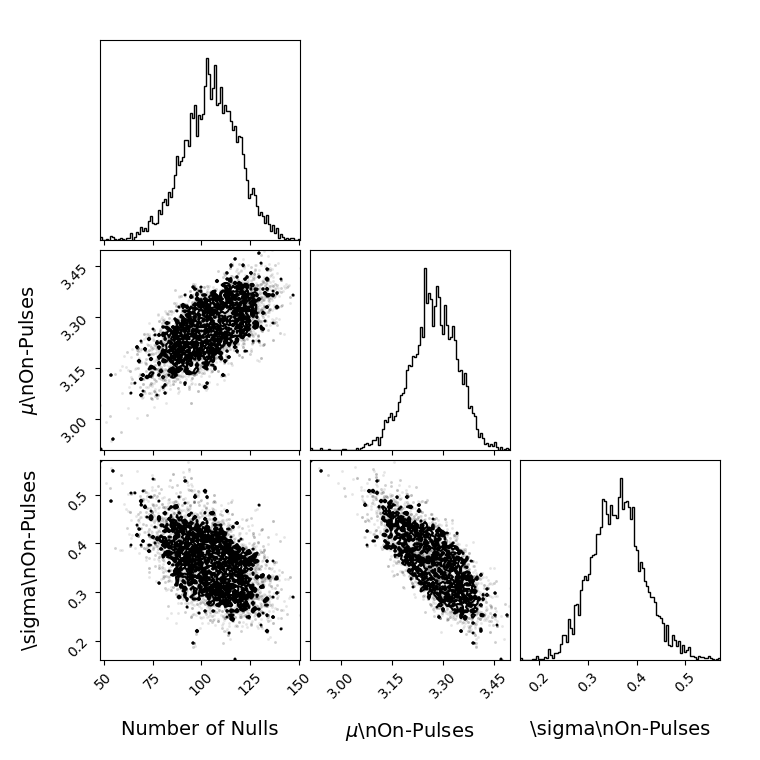
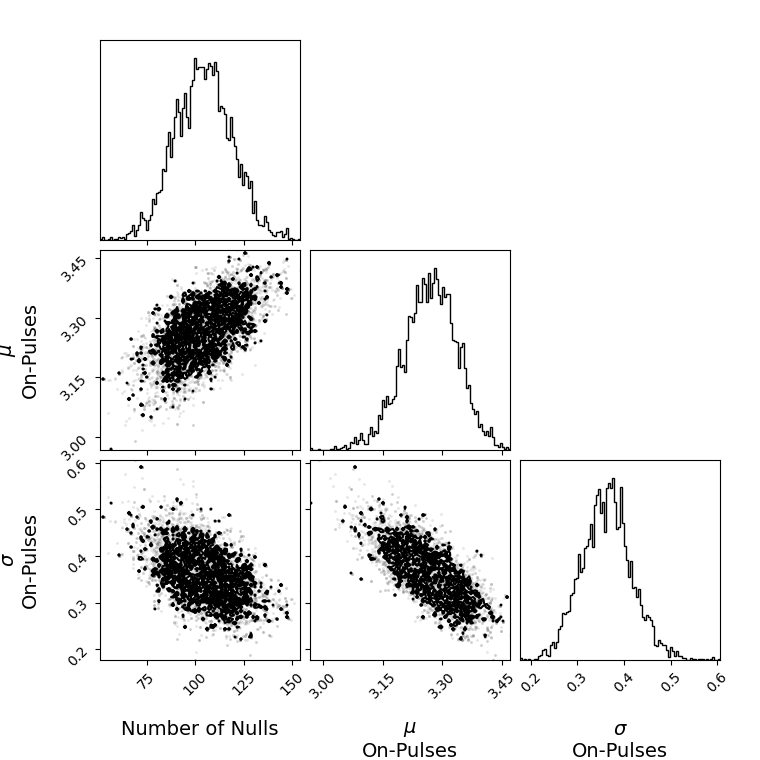
Improve README, fix corner plot labels, and add waterfall example image
- Add paper link (arXiv) to README introduction
- Expand output file descriptions with μ/σ lognormal explanation
- Reorder diagnostic plot descriptions per requested order
- Add on-pulse/off-pulse window section to README
- Replace corner_plot_example.png with version showing fixed axis labels
- Add waterfall_mean_example.png to README
- Remove data_format_example.png
- Fix corner plot axis labels (μ, σ now render as Greek letters with newline)
- Replace list-length print with RuntimeError and success message

diff --git a/python_code/nf_calculator.py b/python_code/nf_calculator.py
@@ -393,7 +393,7 @@ for file in os.listdir(datadir):
         plt.rcParams['xtick.labelsize'] = 10
         plt.rcParams['ytick.labelsize'] = 10
         plt.rcParams['axes.labelsize'] = 14
-        corner(sampler.flatchain, 100, title='' ,labels=["Number of Nulls",r"$\mu$\nOn-Pulses",r"\sigma\nOn-Pulses"])
+        corner(sampler.flatchain, 100, title='' ,labels=["Number of Nulls", "$\\mu$\nOn-Pulses", "$\\sigma$\nOn-Pulses"])
         plt.savefig(f'{output_dir}/{file}_corner_plot.png')            
         plt.close()
 
@@ -450,10 +450,10 @@ for file in os.listdir(datadir):
 
 zipped = list(sorted(zip(mjd_list, nf_list, nf_lower_unc, nf_upper_unc, sn_proxy_list, n_prof_list, hs_nf_list, max_nulls)))
 
-if len(mjd_list) == len(nf_list) == len(nf_lower_unc) == len(nf_upper_unc) == len(sn_proxy_list) == len(n_prof_list) == len(hs_nf_list) == len(max_nulls) == len(all_nulls) == len(all_non_nulls):
-    print('All lists are of equal length.')
-else:
-    print('LISTS ARE NOT ALL OF EQUAL LENGTH!')
+if len(mjd_list) != len(nf_list) or len(mjd_list) != len(nf_lower_unc) or len(mjd_list) != len(nf_upper_unc) or len(mjd_list) != len(sn_proxy_list) or len(mjd_list) != len(n_prof_list) or len(mjd_list) != len(hs_nf_list) or len(mjd_list) != len(max_nulls) or len(mjd_list) != len(all_nulls) or len(mjd_list) != len(all_non_nulls):
+    raise RuntimeError('Output lists are not all of equal length — one or more observations may have failed to process.')
+
+print(f'All {file_tot} observations processed successfully.')
 
 ### SAVE RESULTS
 

diff --git a/README.md b/README.md
@@ -1,6 +1,6 @@
 # Pulsar Nulling Fraction Calculator
 
-A tool for measuring the **nulling fraction** of radio pulsars from single-pulse data. Nulling is a phenomenon where a pulsar intermittently switches its radio emission off for one or more pulse periods. This code measures what fraction of pulses are "nulls" using two independent methods, described in detail in Brook et al. (2026):
+A tool for measuring the **nulling fraction** of radio pulsars from single-pulse data. Nulling is a phenomenon where a pulsar intermittently switches its radio emission off for one or more pulse periods. This code measures what fraction of pulses are "nulls" using two independent methods, described in detail in [Brook et al. (2026)](https://arxiv.org/abs/2602.22956):
 
 1. **Histogram Scaling (HS) method** (§3.2) — For each observation, separate histograms of the on-pulse and off-pulse total flux densities are constructed. A scaled copy of the off-pulse histogram is subtracted from the on-pulse histogram, with the scale factor chosen so that the sum of difference counts in bins with flux density below zero is minimised to zero (i.e. no excess of apparent nulls). The nulling fraction is then simply this scale factor, with a fitting uncertainty of √n_p / N, where n_p = NF × N is the number of null pulses and N is the total number of rotations. A limitation of this method is the assumption that all pulses with negative flux density are genuine nulls; in low-S/N data, non-null pulses can scatter below zero, leading to a potential underestimate of the nulling fraction.
 
@@ -50,6 +50,16 @@ Results and plots will be written to `pulsar_results/J1559-5545/`.
 | `-outdir`  | Directory where output plots and files are saved      | `pulsar_results/` |
 | `-datadir` | Directory containing the pulsar data subdirectories   | `pulsar_data/`  |
 
+## On-pulse and off-pulse windows
+
+The on-pulse and off-pulse windows are the two most important parameters to set correctly, as everything in the analysis depends on them.
+
+Each pulse period is divided into phase bins (e.g. 512 bins covering one full rotation). The pulsar's radio emission only appears in a small range of these bins — the **on-pulse window**, defined by `-fb` (first bin) and `-lb` (last bin). The total flux density summed across these bins for each pulse is the quantity used to measure the nulling fraction. You should inspect the mean pulse profile (visible in `*_waterfall_mean.png`) and choose `-fb` and `-lb` to tightly bracket the emission peak.
+
+The **off-pulse window** is a region of the same width as the on-pulse window, placed a quarter of a period away (i.e. starting at bin `-fb + N/4`, where N is the total number of bins). This region should contain no real emission and is used to characterise the baseline radiometer noise. It provides the reference noise distribution that both the HS and BPE methods use to identify null pulses. The off-pulse window is set automatically by the code — you do not need to specify it.
+
+The green dashed lines in the `*_waterfall_mean.png` plot mark the on-pulse window, and the orange dashed lines mark the off-pulse window, so you can verify both are positioned correctly.
+
 ## Input data format
 
 Each observation is a plain ASCII text file. Files can have any name and should be placed in `pulsar_data/<pulsar_name>/`.
@@ -74,8 +84,6 @@ The remaining lines are two-column rows giving the phase bin number and flux den
 ...
 ```
 
-![Data format example](data_format_example.png)
-
 All files in `pulsar_data/<pulsar_name>/` are processed, so ensure the directory contains only observation data files.
 
 ## Reproducibility
@@ -90,9 +98,19 @@ For each observation file, seven diagnostic plots are saved to `<outdir>/<pulsar
 
 **`*_waterfall_mean.png`** — Two-panel figure. The upper panel is a waterfall plot showing the flux density of every individual pulse as a function of phase bin (x-axis) and pulse number (y-axis), giving a visual overview of the nulling behaviour across the observation. The lower panel shows the normalised mean pulse profile, with green dashed lines marking the on-pulse window and orange dashed lines marking the off-pulse window used for baseline estimation.
 
-**`*_flux.png`** — Scatter plot of the summed on-pulse window flux density for each individual pulse, plotted against pulse number. Useful for seeing the variability of emission from pulse to pulse and identifying extended null or burst periods.
+![Waterfall mean example](waterfall_mean_example.png)
+
+**`*_flux.png`** — Scatter plot of the summed on-pulse window flux density for each individual pulse, plotted against pulse number. Useful for seeing the variability of emission from pulse to pulse and identifying extended null or burst periods. The blue dashed line marks the mean off-pulse flux density plus 1 standard deviation, used as the threshold for classifying a pulse as a null or an emission. The orange dashed line marks the mean plus 2 standard deviations, indicating more confidently detected emission pulses.
 
 ![Flux density example](flux_example.png)
+
+**`*_corner_plot.png`** — MCMC posterior corner plot showing the joint and marginal distributions of the three fitted parameters: the number of null pulses, μ (the mean of the natural logarithm of the on-pulse flux densities for non-null pulses — i.e. the location parameter of the lognormal distribution), and σ (the standard deviation of the natural logarithm of the on-pulse flux densities for non-null pulses — i.e. the width of the lognormal distribution). Narrow, well-separated posteriors indicate a reliable fit; broad or multimodal distributions suggest the data quality or nulling fraction may make the parameters hard to constrain.
+
+![Corner plot example](corner_plot_example.png)
+
+**`*_bayes_fit.png`** — Histogram of on-pulse window flux density with the BPE model overlaid. The blue curve is the null component (Gaussian noise), the red curve is the emission component (lognormal convolved with the noise distribution), and the dashed black curve is their sum. A good fit indicates the MCMC has converged on a physically reasonable solution.
+
+![Bayes fit example](bayes_fit_example.png)
 
 **`*_hist_before.png`** — Overlapping histograms of the on-pulse (green) and off-pulse (orange) flux density distributions before any scaling is applied. Shows the raw separation between the null and emission populations.
 
@@ -106,30 +124,22 @@ For each observation file, seven diagnostic plots are saved to `<outdir>/<pulsar
 
 ![Histogram after scaling example](hist_scaled_example.png)
 
-**`*_bayes_fit.png`** — Histogram of on-pulse window flux density with the BPE model overlaid. The blue curve is the null component (Gaussian noise), the red curve is the emission component (lognormal convolved with the noise distribution), and the dashed black curve is their sum. A good fit indicates the MCMC has converged on a physically reasonable solution.
-
-![Bayes fit example](bayes_fit_example.png)
-
-**`*_corner_plot.png`** — MCMC posterior corner plot showing the joint and marginal distributions of the three fitted parameters: number of nulls, μ (lognormal mean of the emission component), and σ (lognormal width). Used to assess sampler convergence and correlations between parameters.
-
-![Corner plot example](corner_plot_example.png)
-
 ### Summary output files
 
-**`<outdir>/<pulsar>/<pulsar>.txt`** — one row per quantity, one column per observation (sorted chronologically by MJD):
+**`<outdir>/<pulsar>/<pulsar>.txt`** — This is the main results file. It contains one row per quantity and one column per observation, sorted chronologically by MJD. Each column therefore represents one observation, and each row represents a different measured quantity. This file is read directly by `plot_nf_evolution.ipynb` to produce the NF evolution plot.
 
 | Row | Quantity | Description |
 |-----|----------|-------------|
 | 1 | MJD | Modified Julian Date of the observation |
-| 2 | Bayesian NF | Bayesian nulling fraction (posterior median) |
-| 3 | NF lower uncertainty | Lower uncertainty on the Bayesian NF |
-| 4 | NF upper uncertainty | Upper uncertainty on the Bayesian NF |
-| 5 | S/N proxy | Signal-to-noise proxy for the observation |
-| 6 | Number of profiles | Number of single pulses in the observation |
-| 7 | HS NF | Histogram Scaling nulling fraction |
-| 8 | Max consecutive nulls | Longest consecutive null run in the observation |
+| 2 | BPE nulling fraction | The nulling fraction measured by the Bayesian Parameter Estimation method — the fraction of pulses that are nulls, as the median of the MCMC posterior distribution. A value of 0 means no nulling was detected; a value of 1 means the pulsar was nulling for the entire observation. |
+| 3 | BPE lower uncertainty | The downward 1σ uncertainty on the BPE nulling fraction, combining the MCMC fitting uncertainty and the binomial sampling uncertainty. |
+| 4 | BPE upper uncertainty | The upward 1σ uncertainty on the BPE nulling fraction, combining the MCMC fitting uncertainty and the binomial sampling uncertainty. |
+| 5 | S/N proxy | A signal-to-noise proxy for the observation, estimated as the median peak flux density of the brightest non-null pulses. A useful indicator of data quality — low values suggest the observation may be too noisy for reliable NF measurement. |
+| 6 | Number of profiles | The total number of individual pulses (rotations) in the observation. |
+| 7 | HS nulling fraction | The nulling fraction measured by the Histogram Scaling method. |
+| 8 | Max consecutive nulls | The longest consecutive run of null pulses found in the observation. |
 
-**`<outdir>/<pulsar>/<pulsar>_consecutive_nulls_and_non.txt`** — null and non-null run lengths
+**`<outdir>/<pulsar>/<pulsar>_consecutive_nulls_and_non.txt`** — Two lines listing the lengths of every consecutive null train and every consecutive emission train across all observations. Used internally by `plot_nf_evolution.ipynb` to estimate the binomial sampling uncertainty.
 
 ## Visualising NF evolution: `plot_nf_evolution.ipynb`
 